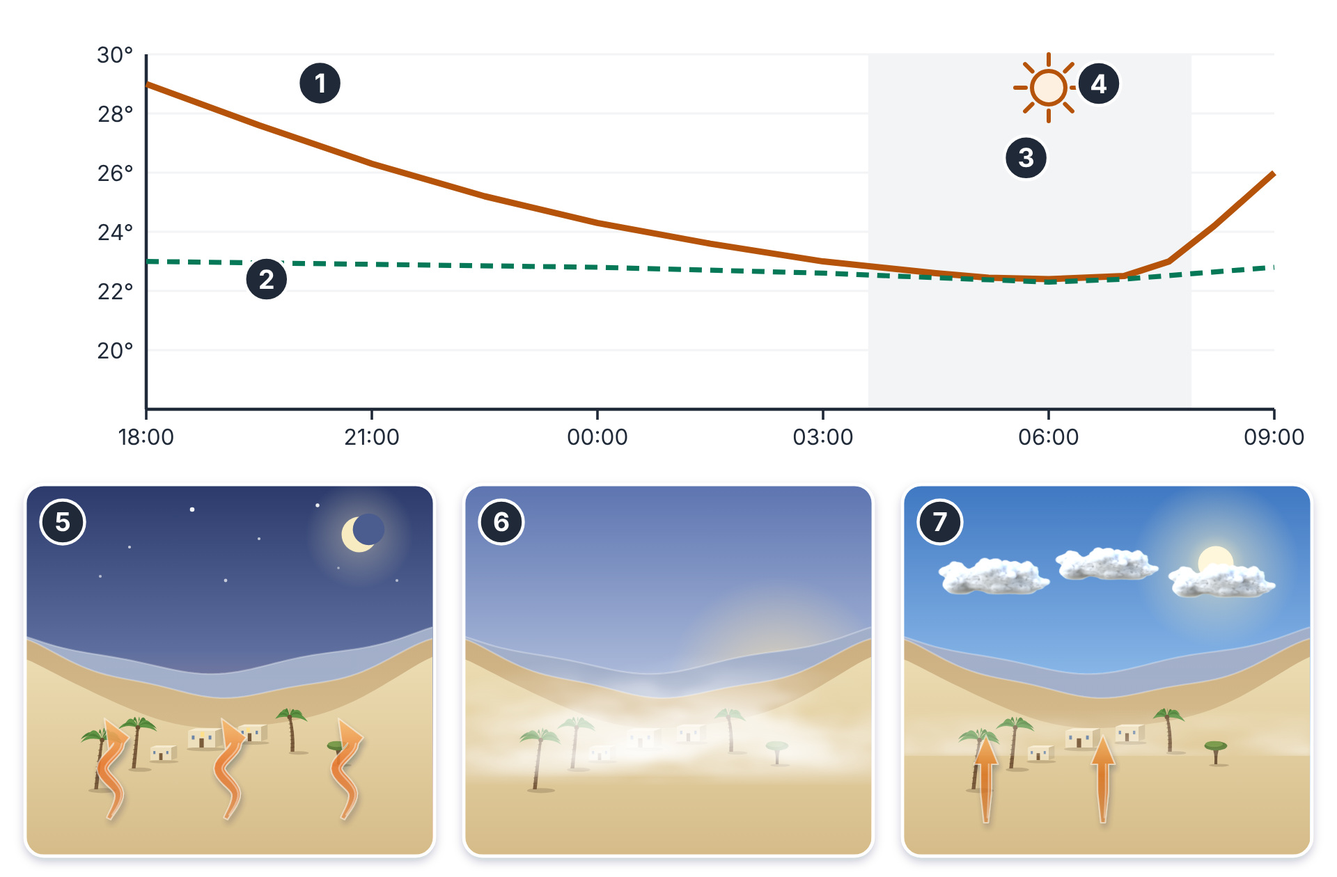
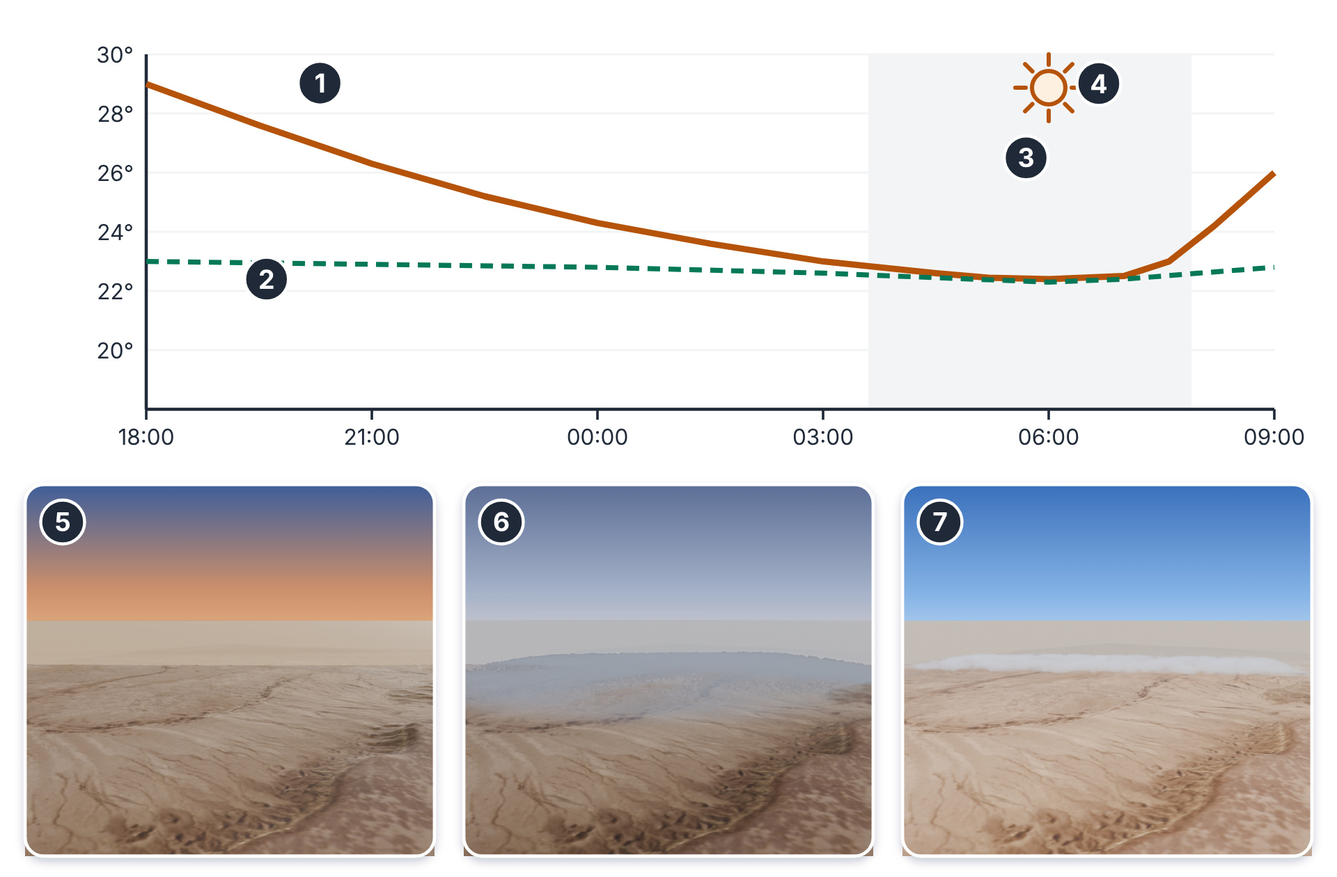
Plate 14-8 (radiation fog) from three 3D views of one place
The chart of the book's figure is kept; the evening, the dawn fog and the
mid-morning stratus are three renders of the low plain below the escarpment
near Thumamah (figs/oeth3d.fog_14_08). render_oeth.py: fogs take a soft
round edge and an even layer, and a recipe can despeckle the saved picture.
15-3 was tried in 3D and dropped.

Claude-Session: https://claude.ai/code/session_01GaKzbGvzg6oJZTLUkbk9TR

diff --git a/09_book_figures/handbook/figs/f_14_08_radiation_fog.py b/09_book_figures/handbook/figs/f_14_08_radiation_fog.py
@@ -1,7 +1,8 @@
 """Figure 14-8. Radiation fog: the temperature falls to the dew point overnight. The chart of the book's figure (the temperature and dew point curves, the shaded night, the sunrise, its
-callouts 1 to 4) over three scenes of the same hollow in the hills of the Arabian Peninsula: the evening, clear and calm, the ground radiating its heat to the sky; the dawn, with the
-fog lying in the hollow and thickest in its middle; the mid-morning, with the fog lifted into low cloud as the ground heats (figs/scene.py makes the sky, the land, the fog and the arrows;
-reskin.py lays them with the clouds of figs/clouds.py)."""
+callouts 1 to 4) over three renders of the same place at three times (redrawn in the second design pass; figs/oeth3d.fog_14_08, blender/render_oeth.py): the low plain
+west of the escarpment at Thumamah seen from above the plateau, on the open picture of the ground on its relief. The evening, clear and calm under a low sun; the dawn, with
+radiation fog lying in the low ground (a scattering volume densest at the ground) below the plateau; mid-morning, the sun higher and the fog lifted into broken low stratus.
+The sky of each is drawn; callouts 5 to 7 are the three times."""
 import os
 import re
 
@@ -17,72 +18,23 @@ PANELS = [(12, 196), (222, 196), (432, 196)]
 TOP, BOTTOM = 232, 410
 
 
-def panel(i, sky_stops, body):
-    """One scene in its card: a rounded frame with a soft shadow, the picture clipped to it."""
+def scene(i, rid, stops):
+    """One time of day: the drawn sky, then the render laid whole over it, in a card."""
     x, w = PANELS[i]
     h = BOTTOM - TOP
     uid = f"f1408p{i}"
-    return (f'<defs><clipPath id="{uid}c"><rect x="{x}" y="{TOP}" width="{w}" height="{h}" rx="9"/></clipPath>'
-            f'<filter id="{uid}s" x="-10%" y="-10%" width="120%" height="125%"><feDropShadow dx="0" dy="2" stdDeviation="2.4" flood-color="#10233F" flood-opacity="0.28"/></filter></defs>'
-            f'<rect x="{x}" y="{TOP}" width="{w}" height="{h}" rx="9" fill="#ffffff" filter="url(#{uid}s)"/>'
-            f'<g clip-path="url(#{uid}c)">' + S.sky(uid + "k", x, TOP, w, h, sky_stops) + body + f'</g><rect x="{x}" y="{TOP}" width="{w}" height="{h}" rx="9" fill="none" stroke="#ffffff" stroke-width="1.6"/>')
+    under = (f'<defs><clipPath id="{uid}c"><rect x="{x}" y="{TOP}" width="{w}" height="{h}" rx="9"/></clipPath>'
+             f'<filter id="{uid}s" x="-10%" y="-10%" width="120%" height="125%"><feDropShadow dx="0" dy="2" stdDeviation="2.4" flood-color="#10233F" flood-opacity="0.28"/></filter></defs>'
+             f'<rect x="{x}" y="{TOP}" width="{w}" height="{h}" rx="9" fill="#ffffff" filter="url(#{uid}s)"/>'
+             f'<g clip-path="url(#{uid}c)">' + S.sky(uid + "k", x, TOP, w, h * 0.5, stops) + '</g>')
+    img = {"name": rid, "at": [x + w / 2, TOP + h / 2], "width": w, "whole": True}
+    frame = f'<rect x="{x}" y="{TOP}" width="{w}" height="{h}" rx="9" fill="none" stroke="#ffffff" stroke-width="1.6"/>'
+    return [under, img, frame]
 
 
-def hollow(i, seed=4):
-    x, w = PANELS[i]
-    return S.valley(f"f1408v{i}", x, x + w, TOP + 62, BOTTOM, seed=seed, depth=34)
-
-
-def village(i, lit=False):
-    x, w = PANELS[i]
-    base = 352
-    out = [S.house(x + 78, base + 6, 13, 8, 3), S.house(x + 102, base + 3, 11, 7, 4), S.house(x + 60, base + 12, 10, 6, 5)]
-    out += [S.palm(x + 52, base + 16, 20, 0.1, 6), S.palm(x + 128, base + 8, 17, -0.08, 7), S.acacia(x + 150, base + 14, 11, 8), S.palm(x + 34, base + 26, 24, 0.12, 9)]
-    if lit:
-        out += [f'<rect x="{S.n(x + 84)}" y="{base - 1.5}" width="1.8" height="2.4" fill="#FFE08A"/><rect x="{S.n(x + 106)}" y="{base - 3.5}" width="1.6" height="2.2" fill="#FFE08A"/>']
-    return "".join(out)
-
-
-def heat_waves(i, colour1="#E8782E", colour2="#F8BE73", n_arrows=3, wavy=True):
-    x, w = PANELS[i]
-    out = []
-    for k in range(n_arrows):
-        cx = x + 40 + k * 56
-        if wavy:
-            pts = [(cx, 392), (cx + 5, 380), (cx - 3, 368), (cx + 5, 356), (cx - 2, 344)]
-        else:
-            pts = [(cx, 394), (cx, 380), (cx, 366), (cx, 352)]
-        out.append(S.ribbon(f"f1408h{i}{k}", pts, 5.2, colour1, colour2, opacity=0.88, head=2.2, tail=0.4, per=8))
-    return "".join(out)
-
-
-def evening():
-    x, w = PANELS[0]
-    stars = "".join(f'<circle cx="{S.n(x + sx)}" cy="{S.n(TOP + sy)}" r="{r}" fill="#FFFFFF" opacity="{o}"/>' for sx, sy, r, o in
-                    [(22, 16, 0.9, 0.9), (50, 30, 0.7, 0.7), (80, 12, 1.1, 0.95), (112, 26, 0.7, 0.7), (140, 10, 0.9, 0.9), (170, 24, 0.8, 0.8), (36, 44, 0.7, 0.6), (96, 46, 0.8, 0.7), (178, 46, 0.7, 0.6), (150, 40, 0.6, 0.5)])
-    moon = (S.glow("f1408mg", x + 160, TOP + 24, 26, "#FFF1C8", 0.55) + f'<circle cx="{S.n(x + 160)}" cy="{S.n(TOP + 24)}" r="8.5" fill="#F7EBC2"/>'
-            f'<circle cx="{S.n(x + 164.5)}" cy="{S.n(TOP + 21.5)}" r="7.6" fill="#4B5C8E"/>')
-    return panel(0, [(0.0, "#2B3A6B"), (0.45, "#5E6F9F"), (0.8, "#C79DA0"), (1.0, "#F2B98A")],
-                 stars + moon + hollow(0, 4) + village(0, lit=True) + heat_waves(0, wavy=True))
-
-
-def dawn():
-    x, w = PANELS[1]
-    sun = S.glow("f1408sg", x + 150, TOP + 96, 52, "#FFE3A8", 0.9) + f'<circle cx="{S.n(x + 150)}" cy="{S.n(TOP + 99)}" r="8" fill="#FFF3CF"/>'
-    fogs = (S.fog("f1408fa", x - 30, x + w + 30, 372, 96, seed=3, opacity=1.0, middle=True, foot=0.1) + S.fog("f1408fb", x - 20, x + w + 20, 376, 62, seed=9, opacity=1.0, wisp=1.1, middle=True, foot=0.1)
-            + S.fog("f1408fc", x, x + w, 372, 38, seed=21, opacity=0.9, wisp=1.0, middle=True, foot=0.1))
-    return panel(1, [(0.0, "#5C74B0"), (0.5, "#A8B7D8"), (0.82, "#F3D3B2"), (1.0, "#FBE6C4")], sun + hollow(1, 4) + village(1) + fogs)
-
-
-def morning():
-    x, w = PANELS[2]
-    sun = S.glow("f1408tg", x + 150, TOP + 38, 40, "#FFF2C4", 0.9) + f'<circle cx="{S.n(x + 150)}" cy="{S.n(TOP + 38)}" r="8.5" fill="#FFF7DC"/>'
-    return panel(2, [(0.0, "#3F78C2"), (0.5, "#86B4E6"), (0.9, "#DCEBF8"), (1.0, "#F4F1DF")],
-                 sun + hollow(2, 4) + village(2) + S.fog("f1408ma", x, x + w, 362, 22, seed=5, opacity=0.5, wisp=0.8) + heat_waves(2, "#D9731F", "#F2B15F", 2, wavy=False))
-
-
-LOW_CLOUDS = [{"name": "cloud-cumulus-b", "at": [476, 276], "width": 54, "height": 18}, {"name": "cloud-cumulus-b", "at": [530, 270], "width": 50, "height": 16},
-              {"name": "cloud-cumulus-b", "at": [585, 278], "width": 52, "height": 17}]
+EVENING = [(0.0, "#3E5E9A"), (0.55, "#C98E6B"), (1.0, "#F2C38F")]
+DAWN = [(0.0, "#5C6E96"), (0.6, "#A8B4CA"), (1.0, "#E6D9CC")]
+MORNING = [(0.0, "#3A70BC"), (0.6, "#86B4E6"), (1.0, "#D8E5F1")]
 
 
 def callouts():
@@ -110,6 +62,7 @@ def plate():
         "reskin": {
             "svg": "fig-14-08-radiation-fog.svg",
             "blank": True,
-            "layers": ['<rect x="0" y="0" width="640" height="420" fill="#ffffff"/>', CHART, evening(), dawn(), morning(), *LOW_CLOUDS, callouts()],
+            "layers": ['<rect x="0" y="0" width="640" height="420" fill="#ffffff"/>', CHART, *scene(0, "fog-14-08-evening", EVENING), *scene(1, "fog-14-08-dawn", DAWN),
+                       *scene(2, "fog-14-08-morning", MORNING), callouts()],
         },
     }

diff --git a/09_book_figures/blender/render_oeth.py b/09_book_figures/blender/render_oeth.py
@@ -531,16 +531,68 @@ def fogs(items):
         mul = nt.nodes.new("ShaderNodeMath")
         mul.operation = "MULTIPLY"
         nt.links.new(rng.outputs[0], mul.inputs[0])
-        nt.links.new(nz.outputs["Fac"], mul.inputs[1])
+        if f.get("noise", 3.0):
+            nt.links.new(nz.outputs["Fac"], mul.inputs[1])
+        else:                                             # noise 0: an even layer (the noise of a thin, wide box is stretched across its thickness)
+            mul.inputs[1].default_value = 0.5
         mul2 = nt.nodes.new("ShaderNodeMath")
         mul2.operation = "MULTIPLY"
         mul2.inputs[1].default_value = 2.0
         nt.links.new(mul.outputs[0], mul2.inputs[0])
-        nt.links.new(mul2.outputs[0], vol.inputs["Density"])
+        dens = mul2.outputs[0]
+        if "soft" in f:                                   # a round patch fading out from `soft` (a fraction of the half-width) to the edge of the box, with no straight sides
+            sub = nt.nodes.new("ShaderNodeVectorMath")
+            sub.operation = "SUBTRACT"
+            sub.inputs[1].default_value = (0.5, 0.5, 0.0)
+            nt.links.new(tc.outputs["Generated"], sub.inputs[0])
+            flat = nt.nodes.new("ShaderNodeVectorMath")
+            flat.operation = "MULTIPLY"
+            flat.inputs[1].default_value = (2.0, 2.0, 0.0)
+            nt.links.new(sub.outputs[0], flat.inputs[0])
+            ln = nt.nodes.new("ShaderNodeVectorMath")
+            ln.operation = "LENGTH"
+            nt.links.new(flat.outputs[0], ln.inputs[0])
+            edge = nt.nodes.new("ShaderNodeMapRange")
+            edge.interpolation_type = "SMOOTHSTEP"
+            edge.inputs[1].default_value = f["soft"]
+            edge.inputs[2].default_value = 1.0
+            edge.inputs[3].default_value = 1.0
+            edge.inputs[4].default_value = 0.0
+            nt.links.new(ln.outputs["Value"], edge.inputs[0])
+            m3 = nt.nodes.new("ShaderNodeMath")
+            m3.operation = "MULTIPLY"
+            nt.links.new(dens, m3.inputs[0])
+            nt.links.new(edge.outputs[0], m3.inputs[1])
+            dens = m3.outputs[0]
+        nt.links.new(dens, vol.inputs["Density"])
         out = nt.nodes.new("ShaderNodeOutputMaterial")
         nt.links.new(vol.outputs[0], out.inputs["Volume"])
         ob.data.materials.append(mat)
         ob.visible_shadow = False
+
+
+def despeckle(path, threshold):
+    """Single bright or dark pixels taken out of a saved picture: a pixel that differs from the median of its neighbourhood (3 x 3 twice, then 5 x 5) by more than `threshold`
+    (0..1, summed over red, green and blue) takes that median. A thin, wide layer of fog seen at a grazing angle leaves such points, whatever the samples."""
+    import numpy as np
+    img = bpy.data.images.load(path)
+    w, h = img.size
+    px = np.empty(w * h * 4, dtype=np.float32)
+    img.pixels.foreach_get(px)
+    px = px.reshape(h, w, 4)
+    total = 0
+    for k in (1, 1, 2):                                   # twice over 3 x 3, then over 5 x 5 (the points come in small clumps too)
+        pad = np.pad(px, ((k, k), (k, k), (0, 0)), mode="edge")
+        med = np.median(np.stack([pad[k + dy:k + dy + h, k + dx:k + dx + w] for dy in range(-k, k + 1) for dx in range(-k, k + 1)]), axis=0)
+        off = np.abs(px[..., :3] - med[..., :3]).sum(axis=2) > threshold
+        px[off] = med[off]
+        total += int(off.sum())
+    off = total
+    img.pixels.foreach_set(px.ravel())
+    img.filepath_raw = path
+    img.file_format = "PNG"
+    img.save()
+    print("despeckled", off, "pixels")
 
 
 def scene_clouds(items):
@@ -1081,6 +1133,8 @@ def main():
         anchors[k] = [round(q.x, 5), round(1.0 - q.y, 5)]
     if not a.anchors_only:
         bpy.ops.render.render(write_still=True)
+        if r.get("despeckle"):
+            despeckle(out, r["despeckle"])
     with open(os.path.join(PLATES, "renders", r["id"] + ".anchors.json"), "w") as f:
         json.dump({"id": r["id"], "size": [w, h], "anchors": anchors, "curves": {}}, f, indent=1)
     print("rendered", r["id"])

diff --git a/09_book_figures/handbook/figs/oeth3d.py b/09_book_figures/handbook/figs/oeth3d.py
@@ -1038,6 +1038,30 @@ def wave_15_06():
                                 "rwy": [rx0, ry0], "tower": [rx0 - 50.0, ry0 + 280.0, 20.0], "hz": [rx0, ry0 + 400000.0, 0.0]}})
 
 
+def fog_14_08(when):
+    """Figure 14-8: the same low ground east of Thumamah at three times, seen from a little above it: the evening (a low sun from the west, clear and calm),
+    the dawn (radiation fog lying in the low ground, a scattering volume densest at the ground, under a sun just risen in the east), and mid-morning (the sun
+    higher, the fog lifted into broken low stratus). The sky is drawn on the plate."""
+    cx, cy = 600.0, -1800.0                              # the low plain west of the escarpment (near 0 m); the plateau north-east of it stands about 200 m higher
+    cam = {"at": [8600.0, 3800.0, 1300.0], "look": [1400.0, -1400.0, 0.0], "lens": 30}
+    sun = {"evening": {"elevation": 5, "azimuth": 265, "energy": 2.6, "sky": 0.6}, "dawn": {"elevation": 3, "azimuth": 95, "energy": 1.8, "sky": 0.55},
+           "morning": {"elevation": 32, "azimuth": 115, "energy": 3.2, "sky": 0.9}}[when]
+    r = {"id": f"fog-14-08-{when}", "camera": cam, "size": [1000, 908], "samples": 32, "exposure": {"evening": 0.1, "dawn": 0.25, "morning": 0.0}[when],
+         "look": "AgX - Medium High Contrast", "sun": sun, "keep_sources": ["srtm"], "ground_image": dict(ground_texture(), detail={"scale": 0.02, "strength": 0.2, "bump": 0.0}),
+         "far_ground_size": 3000000, "clip_end": 2000000, "transparent": True,
+         "haze": {"start": 3000.0, "depth": 20000.0, "colour": {"evening": "#E6C9A2", "dawn": "#C9CFD9", "morning": "#E3DED4"}[when], "strength": 0.6},
+         "anchors": {"hollow": [cx, cy, 10.0], "hz": [cx - 400000.0, cy - 250000.0, 0.0], "plateau": [6500.0, 3000.0, 200.0]}}
+    if when == "dawn":
+        r["fogs"] = [{"center": [cx, cy], "size": [12000.0, 12000.0, 70.0], "base": -10.0, "density": 0.02, "colour": "#E9EDF2", "noise": 2.5, "soft": 0.8}]
+        r["despeckle"] = 0.08                             # (a thin, wide layer seen at a grazing angle is left speckled with bright points, whatever the samples)
+    if when == "morning":
+        r["fogs"] = [{"center": [cx, cy], "size": [12000.0, 12000.0, 25.0], "base": -10.0, "density": 0.002, "colour": "#EEF1F5", "noise": 2.5, "soft": 0.8}]
+        r["clouds"] = [{"kind": "stratus", "seed": 6, "width": 18.0, "height": 0.5, "depth": 6.0, "density": 70.0, "erode": [0.35, 0.65], "ragged": 0.7, "gaps": [0.3, 0.6],
+                        "gap_floor": 0.35, "taper": 8.0, "end_fade": 0.25, "absorb": 0.0, "absorb_white": 1.0, "at": [cx + 1200.0, cy + 600.0, 130.0], "scale": 520.0, "heading": 60.0}]
+        r["volume_bounces"] = 8
+    return r
+
+
 def backdrop_side():
     """A backdrop for the side-view tiles of the illustrated figures (style C): the plateau east of Thumamah from a little above it, looking north-east over
     the open picture of the ground on the real terrain to a hazy horizon; the sky is left clear (transparent) for the figure to draw. Nothing of the aerodrome is in it."""
@@ -1097,6 +1121,9 @@ RECIPES = {
     "storm-15-01": storm_15_01,
     "dust-15-05": dust_15_05,
     "wave-15-06": wave_15_06,
+    "fog-14-08-evening": lambda: fog_14_08("evening"),
+    "fog-14-08-dawn": lambda: fog_14_08("dawn"),
+    "fog-14-08-morning": lambda: fog_14_08("morning"),
     "vfr-16-08-ceiling": lambda: vfr_2_04_ceiling("vfr-16-08-ceiling", deck=340.0, back=3000.0, cam_z=310.0, lens=40, look_s=200.0, look_z=-60.0, ctr=1400.0, ac_scale=9.0, ac_ahead=1500.0),
     "night-31-10": night_31_10,
     "backdrop-side-desert": backdrop_side,

diff --git a/09_book_figures/handbook/README.md b/09_book_figures/handbook/README.md
@@ -82,7 +82,7 @@ numbered callouts), takes the outlined clouds out with `"remove"`, puts a sky be
 only inserts (the same text twice): a sprite overlay names the cloud, gives its place and `"width"`, and `"height"` where the figure wants it taller or thinner than
 the cloud is; `"tint"` paints a cloud the colour of dust; `"haze"` fades a far cloud into the colour of the sky, `"feather"` softens its edge, `"flip"` turns it over.
 
-The **easy-to-understand teaching figures** (1-1, 1-2, 2-1, 2-2, 2-3, 3-1, 3-2, 4-3, 5-4, 5-6, 5-7, 6-2, 7-2, 8-3, 8-5, 9-5, 9-6, 10-4, 10-5, 12-4, 12-5, 13-3, 13-4, 14-10, 22-9, 23-9, 30-5, 6-3, 29-5, 8-6, 24-9, 12-6, 16-9, 2-4, 7-5, 25-9, 26-9, 31-9, 15-9, 27-9, 19-10, 11-5, 10-7, 20-10, 18-11, 18-12, 31-10, 1-2, 3-2, 11-4, 2-2, 2-4, 13-2, 23-5, 24-3, 19-6, 16-1, 26-1, 19-1, 31-1) are new plates drawn only from numbers and statements the chapters already give; they carry digits, codes and arrows but no words (the words are in the legends). 5-7 (ground effect), 8-3 (mixture as three balance scales) and 9-5 (cabin heat and carbon monoxide, a schematic on the side sprite) are the third round; the old 8-3 (propeller blade section) is now 8-4. The fourth round adds 2-1 (the eight documents on board, as tiles) and 9-6 (the emergency locator transmitter, a schematic on the side sprite); the old 2-1 and 2-2 are now 2-2 and 2-3. The fifth round adds 6-2 (load factor and stall speed in a level turn) and 12-4 (the effects of the CG position); the old 6-2 and 6-3 are now 6-3 and 6-4. The sixth round adds 7-2 (adverse yaw, on the top sprite) and 13-3 (the eight subjects of the passenger briefing, as tiles); the old 7-2 and 7-3 are now 7-3 and 7-4. The seventh round adds 8-5 (the order of power changes) and 10-5 (the blockages of the pitot-static system, three rows of three dials); the old 10-5 (compass errors) is now 10-6. The eighth round adds 1-2 (staying current, three bars that end at now) and 4-3 (the chapter's illustrative NOTAM read part by part, with its validity in UTC and local time); nothing is renumbered. The ninth round adds 3-1 (accident, serious incident and incident as nested regions) and 12-4 (the first fix of the "Too heavy" flight, two bars of mass to one scale); the old 3-1 (the reporting clock) is now 3-2 and the old 12-4 (the CG position) is now 12-5. The tenth round adds 13-3 (the latest takeoff time from A, a time scale worked back from the sunset at B); the old 13-3 (the passenger briefing) is now 13-4. The eleventh round adds 23-9 (the fitness check before every flight, seven question tiles and the rule for the air) and 22-9 (collision avoidance in Saudi conditions, five tiles); nothing is renumbered. The twelfth round adds 14-10 (what to look for in the weather of the Arabian Peninsula, five tiles); nothing is renumbered. The fifty-second round (large 3D scenes, after the owner's review of the tile figures) redraws 31-10 as one night view (figs/oeth3d.night_31_10: the open picture of the ground darkened under a faint moon, the model from behind with its navigation, beacon and strobe lights and a soft flash, towns as points of light, a road of sodium lights, a town under a patch of ground fog; the sky and its stars drawn) and 2-4 as two views (vfr_2_04_cloud: a cumulus of the cloud library inside a glass box of its distances; vfr_2_04_ceiling: a generic aerodrome on ground levelled under it, under a stratus ceiling). These scenes have no Freestyle outlines: over the terrain they cost more than half an hour a frame. The forty-seventh round (Chapter 27 in 3D) puts a 3D view above the re-skinned drawings of 27-5 to 27-8 (reskin.py: a plate's "top3d" moves the old drawing down and lays figs/panel3d.py's panel above it). figs/oeth3d.py builds the four scenes over farmland with no aerodrome: a road and centre-pivot fields as paint, the manoeuvres at 1 000 ft with the chapter's 350 m radius and banks (40, 32, 23 degrees), the wind as orange arrows, the model banked and crabbed at the drawing's places, enlarged 15 times; a high sun and a dimmed sky give one shadow, close under the track: the ground track. The forty-sixth round (the aerodrome in 3D) puts a 3D view above the plan of 18-1 (figs/oeth3d.aerodrome_18_01): the northern part of Thumamah from the north-west, low, with the AIP's runway and its ICAO markings, the book's open plan, the stopway's chevrons and the runway-holding position of the plan (paint drawn wider than it is; render_oeth.py lays a plan's "marks") and the parked aeroplanes of the plan as the model, 3.5 times its size; callouts 6 and 7 stay on the plan. The forty-fifth round (routes and procedures in 3D) puts a 3D view above the plans of 17-9 and 18-8 (figs/panel3d.py lays the render, its north arrow and its callouts and moves the plan below it). 17-9 (figs/oeth3d.route_17_09): the worked example at the heights of 17-10 among the blocks of 17-1 and the three special use areas, heights enlarged five times, the ground flat. 18-8 (figs/oeth3d.procedures_18_08): the AIP's procedures carried from the map into the scene at their heights (the circuits at 2 900 ft, the departures to 2 600 or 2 300 ft and then 3 000 ft, the arrival from the east at 3 500 ft until past the ridge), over the SRTM ground of the scene, heights (the ground's too) enlarged four times; callout 4 stays on the map. The forty-fourth round (circuits and airspace in 3D) gives 26-2 the 3D view of 18-7 (figs/oeth3d.circuit_26_02: the same circuit without the join and the ways of leaving, the speed and flap tags on the points of the view, the wind as two pale arrows blowing south) and puts a 3D view of the airspace above the section of 17-1 (figs/oeth3d.airspace_17_01: from data/saudi_airspace.json, the Thumamah ATZ, the Riyadh CTR, the final director area for 15L less the CTR and the floor of the Riyadh East TMA part 1 less both, as see-through blocks with their rings drawn, heights enlarged five times, the ground flat; the runways of King Khaled; the line of the section dashed on the ground). blender/render_oeth.py gains volumes (with boolean cut-outs), dashed and draped paths, an arrowhead at a path's end, runways in a plan and a far ground and clip distance a recipe can set. The forty-third round (airports in 3D) adds blender/render_oeth.py, which renders the 3D scene of Thumamah from the saudi-airspace repository (OETH_scene_high.glb and OETH_airspace.glb; set OETH_SCENE to its models folder) with book materials, the C172 model and tubes for flight paths, and figs/oeth3d.py, which maps the h_b4 runway frame into the scene and builds the recipes. The book keeps only the scene's open parts (the runway and obstacles from AD 2 OETH, the ICAO markings, the SRTM terrain, the PAPI placed from the AIP: oeth3d.KEEP_SOURCES against its scene_index.json); the scene's pavements, buildings and compounds are traced from Esri World Imagery, so they are deleted and the book's own open plan (data/oeth_plan.json, from Sentinel-2) is built on the terrain in their place. Figure 18-7's top panel is now the left-hand circuit of runway 35 in 3D at its heights, with its shadow on the ground. A 3D aerodrome view for 18-1 and a 3D view of the procedures for 18-8 were tried and dropped: the scene's detail does not beat the plans on imagery. The forty-second round (upgrade) redraws 13-5 around a cutaway render of the model's cabin (cabin-13-05-briefing: the skin, the roof, the left door and the wings taken away, a red cylinder for the fire extinguisher the model lacks), with the lap belts and harnesses, a seat back, the extinguisher, the door and the baggage area called out on it, and small tiles for smoking, ditching, oxygen and the briefing in Arabic and English. The forty-first round is the first upgrade round: it redraws 26-1 and 19-1 around new renders of the model (figs/sprites.py: the airspeed indicator with the example speeds tagged on its own scale, the flap switch and its scale, the operating-limitations placard, and the radio stack), in place of the drawn tape, lever and icons. The model's flap scale reads to 40 degrees; the book's trainer stops at 30, so 26-1 covers the 40 degree mark. The fortieth round adds 19-1 (the rules of the radio: discipline and phraseology, the first call, English or Arabic, MAYDAY and PAN PAN, the controlled flight and the taxi clearance, six tiles) and 31-1 (night flying in the Kingdom: the time of the rule, the course's night training, the AIP's training exercises and the passenger rule); the old 19-1 to 19-11 are now 19-2 to 19-12, and the old 31-1 to 31-10 are now 31-2 to 31-11. The thirty-ninth round adds 16-1 (the family of weather products on one time axis) and 26-1 (the flight manual first, then the example speed card: the speeds on one tape, the crosswind and the flap settings); the old 16-1 to 16-9 are now 16-2 to 16-10, and the old 26-1 to 26-9 are now 26-2 to 26-10. The thirty-eighth round adds 23-5 (alcohol, medication and psychoactive substances: the rule, the test within 4 hours, the hours alcohol lasts, the AME first, four tiles), 24-3 (IMSAFE and PAVE as letter tiles) and 19-6 (the illustrative position report part by part, and the periodic report); the old 23-5 to 23-9 are now 23-6 to 23-10, the old 24-3 to 24-9 are now 24-4 to 24-10, and the old 19-6 to 19-10 are now 19-7 to 19-11. The thirty-seventh round adds 2-2 (right of way: distress, converging, head-on, overtaking, landing and taxiing, six scenes), 2-4 (the VFR weather minimums, four scenes with the distances from cloud) and 13-2 (the chapter's trip from A to B and back to scale); the old 2-2, 2-3 and 2-4 are now 2-3, 2-5 and 2-6, and the old 13-2 to 13-4 are now 13-3 to 13-5. The thirty-sixth round adds 1-2 (steps 4 to 6: three training routes, the minimum hours and the two tests), 3-2 (after an accident or serious incident: notify, the minimum information, report within 48 hours, preserve the evidence) and 11-4 (the chapter's two worked examples to scale); the old 1-2 is now 1-3, the old 3-2 is now 3-3, and the old 11-4 and 11-5 are now 11-5 and 11-6. The thirty-fifth round adds 31-10 (night emergencies: electrical failure, engine failure, the landing light and the four options, four scenes); nothing is renumbered. The thirty-fourth round adds 18-12 (desert realities on the ground: sand on the pavement, heat shimmer, dust and stones, three scenes); nothing is renumbered. The thirty-third round adds 18-11 (preventing runway incursions: the five educational habits and the line-up that is not a takeoff clearance, six scenes); nothing is renumbered. The thirty-second round adds 20-10 (navigating in the Kingdom: few features and a catching feature, haze and dust, high ground in the south-west, lost late in the day, four scenes); nothing is renumbered. The thirty-first round adds 10-7 (the electronic flight displays: the layout of a primary flight display and a multi-function display, as a schematic with no values); nothing is renumbered. The thirtieth round adds 11-5 (planning a hot-and-high flight: depart early, reduce mass, lean, an abort point, the climb out and the landing, six scenes); nothing is renumbered. The twenty-ninth round adds 19-10 (the chapter's illustrative air report read part by part: a scene and seven chips in the order it is spoken); nothing is renumbered. The twenty-eighth round adds 27-9 (these manoeuvres in Saudi Arabia: references over open desert, a forced-landing field, heat, the shamal circle with its banks, dust and haze, five scenes); nothing is renumbered. The twenty-seventh round adds 15-9 (reporting what you meet: the conditions of section 91.251, how the report goes and what it says, five panels); nothing is renumbered. The twenty-sixth round adds 31-9 (in flight at night over the Kingdom: lights deceive, two illusions, weather in the lights, the dark desert, four scenes); nothing is renumbered. The twenty-fifth round adds 26-9 (Saudi conditions at takeoff and landing, four scenes); nothing is renumbered. The twenty-fourth round adds 25-9 (after the flight: walk round again, write every defect, the four records and the closing of the day, four scenes); nothing is renumbered. The twenty-third round adds 7-5 (control locks, then free and correct: ailerons, elevator and rudder, four scenes); nothing is renumbered. The twenty-second round adds 2-4 (VFR at night in the Kingdom and the VFR fuel, four scenes); nothing is renumbered. The twenty-first round adds 16-9 (when the weather turns in flight, four scenes); nothing is renumbered. The twentieth round adds 12-6 (desert flights and hot days: water and a kit, long distances and heat draw on the same 340 kg of useful load); nothing is renumbered. The nineteenth round adds 24-9 (the normal options: go around, divert, turn back, and the agreement beforehand); nothing is renumbered. The eighteenth round adds 8-6 (propeller safety on the ground, four scenes); nothing is renumbered. The seventeenth round adds 29-5 (a fuel check at checkpoint 2, one bar of litres to scale); the old 29-5 to 29-7 (diversion, lost procedure, three-point solo) are now 29-6 to 29-8. The sixteenth round adds 6-3 (the stall recovery in four scenes); the old 6-3 (spin phases) and 6-4 (upset recovery) are now 6-4 and 6-5. The fifteenth round gives the tile figures 2-1, 13-4 and 23-9 a richer tile (gradient, spotlight and floor, figs/h_rich.py). The fourteenth round redraws 14-10 and 22-9 as illustrated scenes with the scene kit, the cloud sprites and the aeroplane (same ids, numbers and legends). The thirteenth round adds 30-5 (a precautionary landing in four steps), drawn as four illustrated scenes of the Peninsula with the scene kit, the cloud sprites and the aeroplane, the standard of the weather figures; the old 30-5 to 30-7 (fire, electrical failure, survival) are now 30-6 to 30-8.
+The **easy-to-understand teaching figures** (1-1, 1-2, 2-1, 2-2, 2-3, 3-1, 3-2, 4-3, 5-4, 5-6, 5-7, 6-2, 7-2, 8-3, 8-5, 9-5, 9-6, 10-4, 10-5, 12-4, 12-5, 13-3, 13-4, 14-10, 22-9, 23-9, 30-5, 6-3, 29-5, 8-6, 24-9, 12-6, 16-9, 2-4, 7-5, 25-9, 26-9, 31-9, 15-9, 27-9, 19-10, 11-5, 10-7, 20-10, 18-11, 18-12, 31-10, 1-2, 3-2, 11-4, 2-2, 2-4, 13-2, 23-5, 24-3, 19-6, 16-1, 26-1, 19-1, 31-1) are new plates drawn only from numbers and statements the chapters already give; they carry digits, codes and arrows but no words (the words are in the legends). 5-7 (ground effect), 8-3 (mixture as three balance scales) and 9-5 (cabin heat and carbon monoxide, a schematic on the side sprite) are the third round; the old 8-3 (propeller blade section) is now 8-4. The fourth round adds 2-1 (the eight documents on board, as tiles) and 9-6 (the emergency locator transmitter, a schematic on the side sprite); the old 2-1 and 2-2 are now 2-2 and 2-3. The fifth round adds 6-2 (load factor and stall speed in a level turn) and 12-4 (the effects of the CG position); the old 6-2 and 6-3 are now 6-3 and 6-4. The sixth round adds 7-2 (adverse yaw, on the top sprite) and 13-3 (the eight subjects of the passenger briefing, as tiles); the old 7-2 and 7-3 are now 7-3 and 7-4. The seventh round adds 8-5 (the order of power changes) and 10-5 (the blockages of the pitot-static system, three rows of three dials); the old 10-5 (compass errors) is now 10-6. The eighth round adds 1-2 (staying current, three bars that end at now) and 4-3 (the chapter's illustrative NOTAM read part by part, with its validity in UTC and local time); nothing is renumbered. The ninth round adds 3-1 (accident, serious incident and incident as nested regions) and 12-4 (the first fix of the "Too heavy" flight, two bars of mass to one scale); the old 3-1 (the reporting clock) is now 3-2 and the old 12-4 (the CG position) is now 12-5. The tenth round adds 13-3 (the latest takeoff time from A, a time scale worked back from the sunset at B); the old 13-3 (the passenger briefing) is now 13-4. The eleventh round adds 23-9 (the fitness check before every flight, seven question tiles and the rule for the air) and 22-9 (collision avoidance in Saudi conditions, five tiles); nothing is renumbered. The twelfth round adds 14-10 (what to look for in the weather of the Arabian Peninsula, five tiles); nothing is renumbered. The fifty-second round (large 3D scenes, after the owner's review of the tile figures) redraws 31-10 as one night view (figs/oeth3d.night_31_10: the open picture of the ground darkened under a faint moon, the model from behind with its navigation, beacon and strobe lights and a soft flash, towns as points of light, a road of sodium lights, a town under a patch of ground fog; the sky and its stars drawn) and 2-4 as two views (vfr_2_04_cloud: a cumulus of the cloud library inside a glass box of its distances; vfr_2_04_ceiling: a generic aerodrome on ground levelled under it, under a stratus ceiling). These scenes have no Freestyle outlines: over the terrain they cost more than half an hour a frame. The fifty-fifth round keeps the chart of 14-8 and draws its three times as three views of one place (figs/oeth3d.fog_14_08: the low plain below the escarpment near Thumamah from above the plateau; clear in the evening, radiation fog in the low ground at dawn, lifted into a band of stratus by mid-morning; the skies drawn). blender/render_oeth.py's fogs gain a round edge that fades out ("soft") and an even layer with no noise ("noise": 0), and a recipe's "despeckle" takes single bright points out of the saved picture (a thin, wide layer of fog seen at a grazing angle leaves them whatever the samples, the volume steps or the denoiser's passes). 15-3 (the haze of the inversion over a generic aerodrome) was tried in the same way and dropped: seen from above, the haze hid the aerodrome and the aeroplane. The forty-seventh round (Chapter 27 in 3D) puts a 3D view above the re-skinned drawings of 27-5 to 27-8 (reskin.py: a plate's "top3d" moves the old drawing down and lays figs/panel3d.py's panel above it). figs/oeth3d.py builds the four scenes over farmland with no aerodrome: a road and centre-pivot fields as paint, the manoeuvres at 1 000 ft with the chapter's 350 m radius and banks (40, 32, 23 degrees), the wind as orange arrows, the model banked and crabbed at the drawing's places, enlarged 15 times; a high sun and a dimmed sky give one shadow, close under the track: the ground track. The forty-sixth round (the aerodrome in 3D) puts a 3D view above the plan of 18-1 (figs/oeth3d.aerodrome_18_01): the northern part of Thumamah from the north-west, low, with the AIP's runway and its ICAO markings, the book's open plan, the stopway's chevrons and the runway-holding position of the plan (paint drawn wider than it is; render_oeth.py lays a plan's "marks") and the parked aeroplanes of the plan as the model, 3.5 times its size; callouts 6 and 7 stay on the plan. The forty-fifth round (routes and procedures in 3D) puts a 3D view above the plans of 17-9 and 18-8 (figs/panel3d.py lays the render, its north arrow and its callouts and moves the plan below it). 17-9 (figs/oeth3d.route_17_09): the worked example at the heights of 17-10 among the blocks of 17-1 and the three special use areas, heights enlarged five times, the ground flat. 18-8 (figs/oeth3d.procedures_18_08): the AIP's procedures carried from the map into the scene at their heights (the circuits at 2 900 ft, the departures to 2 600 or 2 300 ft and then 3 000 ft, the arrival from the east at 3 500 ft until past the ridge), over the SRTM ground of the scene, heights (the ground's too) enlarged four times; callout 4 stays on the map. The forty-fourth round (circuits and airspace in 3D) gives 26-2 the 3D view of 18-7 (figs/oeth3d.circuit_26_02: the same circuit without the join and the ways of leaving, the speed and flap tags on the points of the view, the wind as two pale arrows blowing south) and puts a 3D view of the airspace above the section of 17-1 (figs/oeth3d.airspace_17_01: from data/saudi_airspace.json, the Thumamah ATZ, the Riyadh CTR, the final director area for 15L less the CTR and the floor of the Riyadh East TMA part 1 less both, as see-through blocks with their rings drawn, heights enlarged five times, the ground flat; the runways of King Khaled; the line of the section dashed on the ground). blender/render_oeth.py gains volumes (with boolean cut-outs), dashed and draped paths, an arrowhead at a path's end, runways in a plan and a far ground and clip distance a recipe can set. The forty-third round (airports in 3D) adds blender/render_oeth.py, which renders the 3D scene of Thumamah from the saudi-airspace repository (OETH_scene_high.glb and OETH_airspace.glb; set OETH_SCENE to its models folder) with book materials, the C172 model and tubes for flight paths, and figs/oeth3d.py, which maps the h_b4 runway frame into the scene and builds the recipes. The book keeps only the scene's open parts (the runway and obstacles from AD 2 OETH, the ICAO markings, the SRTM terrain, the PAPI placed from the AIP: oeth3d.KEEP_SOURCES against its scene_index.json); the scene's pavements, buildings and compounds are traced from Esri World Imagery, so they are deleted and the book's own open plan (data/oeth_plan.json, from Sentinel-2) is built on the terrain in their place. Figure 18-7's top panel is now the left-hand circuit of runway 35 in 3D at its heights, with its shadow on the ground. A 3D aerodrome view for 18-1 and a 3D view of the procedures for 18-8 were tried and dropped: the scene's detail does not beat the plans on imagery. The forty-second round (upgrade) redraws 13-5 around a cutaway render of the model's cabin (cabin-13-05-briefing: the skin, the roof, the left door and the wings taken away, a red cylinder for the fire extinguisher the model lacks), with the lap belts and harnesses, a seat back, the extinguisher, the door and the baggage area called out on it, and small tiles for smoking, ditching, oxygen and the briefing in Arabic and English. The forty-first round is the first upgrade round: it redraws 26-1 and 19-1 around new renders of the model (figs/sprites.py: the airspeed indicator with the example speeds tagged on its own scale, the flap switch and its scale, the operating-limitations placard, and the radio stack), in place of the drawn tape, lever and icons. The model's flap scale reads to 40 degrees; the book's trainer stops at 30, so 26-1 covers the 40 degree mark. The fortieth round adds 19-1 (the rules of the radio: discipline and phraseology, the first call, English or Arabic, MAYDAY and PAN PAN, the controlled flight and the taxi clearance, six tiles) and 31-1 (night flying in the Kingdom: the time of the rule, the course's night training, the AIP's training exercises and the passenger rule); the old 19-1 to 19-11 are now 19-2 to 19-12, and the old 31-1 to 31-10 are now 31-2 to 31-11. The thirty-ninth round adds 16-1 (the family of weather products on one time axis) and 26-1 (the flight manual first, then the example speed card: the speeds on one tape, the crosswind and the flap settings); the old 16-1 to 16-9 are now 16-2 to 16-10, and the old 26-1 to 26-9 are now 26-2 to 26-10. The thirty-eighth round adds 23-5 (alcohol, medication and psychoactive substances: the rule, the test within 4 hours, the hours alcohol lasts, the AME first, four tiles), 24-3 (IMSAFE and PAVE as letter tiles) and 19-6 (the illustrative position report part by part, and the periodic report); the old 23-5 to 23-9 are now 23-6 to 23-10, the old 24-3 to 24-9 are now 24-4 to 24-10, and the old 19-6 to 19-10 are now 19-7 to 19-11. The thirty-seventh round adds 2-2 (right of way: distress, converging, head-on, overtaking, landing and taxiing, six scenes), 2-4 (the VFR weather minimums, four scenes with the distances from cloud) and 13-2 (the chapter's trip from A to B and back to scale); the old 2-2, 2-3 and 2-4 are now 2-3, 2-5 and 2-6, and the old 13-2 to 13-4 are now 13-3 to 13-5. The thirty-sixth round adds 1-2 (steps 4 to 6: three training routes, the minimum hours and the two tests), 3-2 (after an accident or serious incident: notify, the minimum information, report within 48 hours, preserve the evidence) and 11-4 (the chapter's two worked examples to scale); the old 1-2 is now 1-3, the old 3-2 is now 3-3, and the old 11-4 and 11-5 are now 11-5 and 11-6. The thirty-fifth round adds 31-10 (night emergencies: electrical failure, engine failure, the landing light and the four options, four scenes); nothing is renumbered. The thirty-fourth round adds 18-12 (desert realities on the ground: sand on the pavement, heat shimmer, dust and stones, three scenes); nothing is renumbered. The thirty-third round adds 18-11 (preventing runway incursions: the five educational habits and the line-up that is not a takeoff clearance, six scenes); nothing is renumbered. The thirty-second round adds 20-10 (navigating in the Kingdom: few features and a catching feature, haze and dust, high ground in the south-west, lost late in the day, four scenes); nothing is renumbered. The thirty-first round adds 10-7 (the electronic flight displays: the layout of a primary flight display and a multi-function display, as a schematic with no values); nothing is renumbered. The thirtieth round adds 11-5 (planning a hot-and-high flight: depart early, reduce mass, lean, an abort point, the climb out and the landing, six scenes); nothing is renumbered. The twenty-ninth round adds 19-10 (the chapter's illustrative air report read part by part: a scene and seven chips in the order it is spoken); nothing is renumbered. The twenty-eighth round adds 27-9 (these manoeuvres in Saudi Arabia: references over open desert, a forced-landing field, heat, the shamal circle with its banks, dust and haze, five scenes); nothing is renumbered. The twenty-seventh round adds 15-9 (reporting what you meet: the conditions of section 91.251, how the report goes and what it says, five panels); nothing is renumbered. The twenty-sixth round adds 31-9 (in flight at night over the Kingdom: lights deceive, two illusions, weather in the lights, the dark desert, four scenes); nothing is renumbered. The twenty-fifth round adds 26-9 (Saudi conditions at takeoff and landing, four scenes); nothing is renumbered. The twenty-fourth round adds 25-9 (after the flight: walk round again, write every defect, the four records and the closing of the day, four scenes); nothing is renumbered. The twenty-third round adds 7-5 (control locks, then free and correct: ailerons, elevator and rudder, four scenes); nothing is renumbered. The twenty-second round adds 2-4 (VFR at night in the Kingdom and the VFR fuel, four scenes); nothing is renumbered. The twenty-first round adds 16-9 (when the weather turns in flight, four scenes); nothing is renumbered. The twentieth round adds 12-6 (desert flights and hot days: water and a kit, long distances and heat draw on the same 340 kg of useful load); nothing is renumbered. The nineteenth round adds 24-9 (the normal options: go around, divert, turn back, and the agreement beforehand); nothing is renumbered. The eighteenth round adds 8-6 (propeller safety on the ground, four scenes); nothing is renumbered. The seventeenth round adds 29-5 (a fuel check at checkpoint 2, one bar of litres to scale); the old 29-5 to 29-7 (diversion, lost procedure, three-point solo) are now 29-6 to 29-8. The sixteenth round adds 6-3 (the stall recovery in four scenes); the old 6-3 (spin phases) and 6-4 (upset recovery) are now 6-4 and 6-5. The fifteenth round gives the tile figures 2-1, 13-4 and 23-9 a richer tile (gradient, spotlight and floor, figs/h_rich.py). The fourteenth round redraws 14-10 and 22-9 as illustrated scenes with the scene kit, the cloud sprites and the aeroplane (same ids, numbers and legends). The thirteenth round adds 30-5 (a precautionary landing in four steps), drawn as four illustrated scenes of the Peninsula with the scene kit, the cloud sprites and the aeroplane, the standard of the weather figures; the old 30-5 to 30-7 (fire, electrical failure, survival) are now 30-6 to 30-8.
 
 The weather figures that show a place (14-3, 14-6, 14-7, 14-8, 14-9, 15-1, 15-4, 15-6) are drawn again as **illustrated scenes** on the old figure's canvas: a plate whose
 `"reskin"` has `"blank": True` and `"layers"` starts from nothing and lays strings of SVG and cloud sprites in order, back to front. `figs/scene.py` is the kit: skies and the sun
